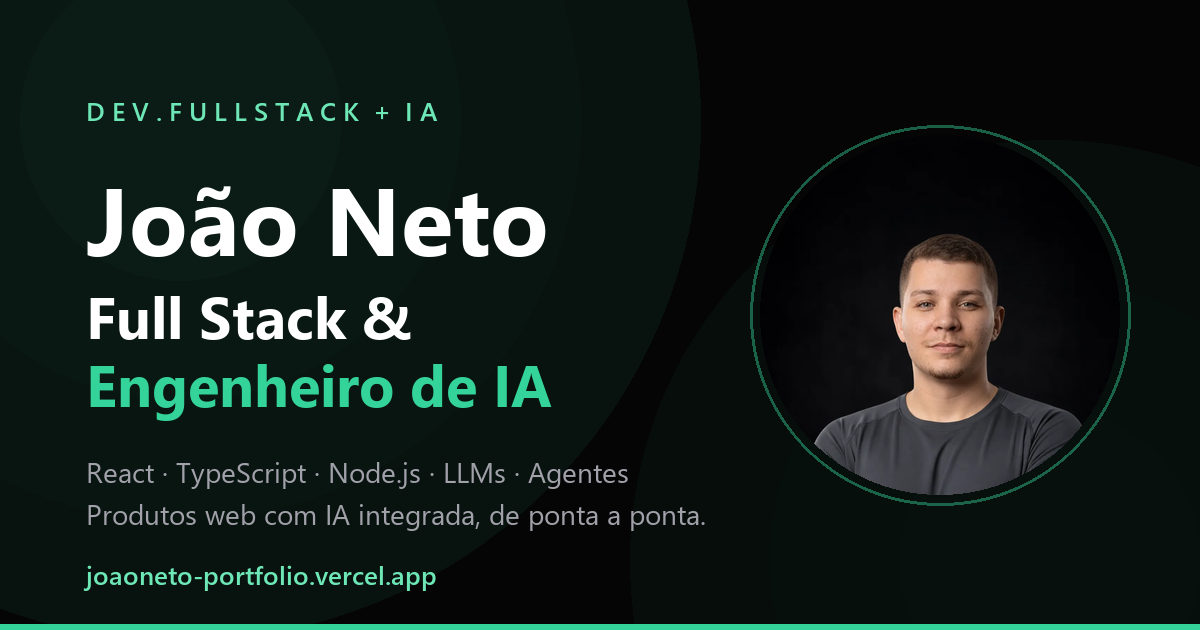
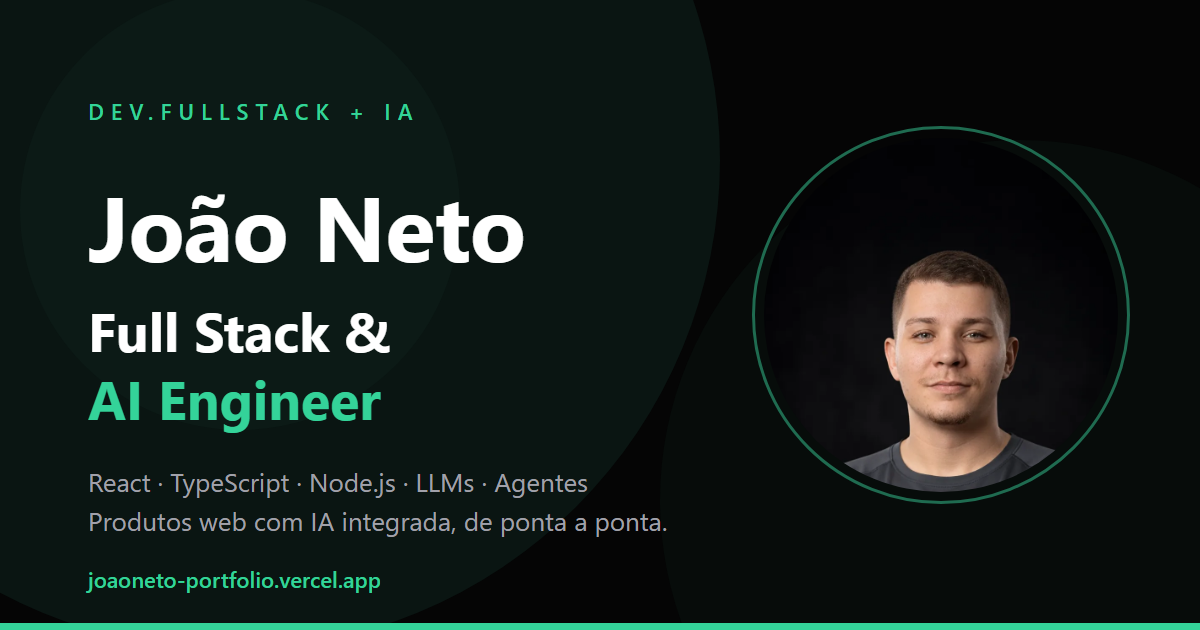
copy: troca Engenheiro de IA por AI Engineer
Hero, Sobre, dados do portfólio, agente do console, metadados de SEO e
compartilhamento, e a imagem og-image refeita com o novo título.

diff --git a/index.html b/index.html
@@ -4,10 +4,10 @@
     <meta charset="UTF-8" />
     <meta name="viewport" content="width=device-width, initial-scale=1.0" />
 
-    <title>João Neto — Desenvolvedor Full Stack e Engenheiro de IA</title>
+    <title>João Neto — Desenvolvedor Full Stack e AI Engineer</title>
     <meta
       name="description"
-      content="Portfólio de João Neto, desenvolvedor full stack e engenheiro de IA. Aplicações web em React, TypeScript e Node.js com IA de ponta a ponta: RAG, fine-tuning, agentes com MCP e skills, medidos por evals."
+      content="Portfólio de João Neto, desenvolvedor full stack e AI Engineer. Aplicações web em React, TypeScript e Node.js com IA de ponta a ponta: RAG, fine-tuning, agentes com MCP e skills, medidos por evals."
     />
     <meta name="author" content="João Neto" />
     <meta name="robots" content="index, follow" />
@@ -16,10 +16,10 @@
     <link rel="canonical" href="https://joaoneto-portfolio.vercel.app/" />
 
     <meta property="og:type" content="website" />
-    <meta property="og:site_name" content="João Neto — Full Stack e Engenheiro de IA" />
+    <meta property="og:site_name" content="João Neto — Full Stack e AI Engineer" />
     <meta property="og:locale" content="pt_BR" />
     <meta property="og:url" content="https://joaoneto-portfolio.vercel.app/" />
-    <meta property="og:title" content="João Neto — Full Stack e Engenheiro de IA" />
+    <meta property="og:title" content="João Neto — Full Stack e AI Engineer" />
     <meta
       property="og:description"
       content="Aplicações web em React, TypeScript e Node.js, com IA de ponta a ponta: RAG, fine-tuning, agentes com MCP e skills, medidos por evals."
@@ -27,10 +27,10 @@
     <meta property="og:image" content="https://joaoneto-portfolio.vercel.app/assets/og-image.png" />
     <meta property="og:image:width" content="1200" />
     <meta property="og:image:height" content="630" />
-    <meta property="og:image:alt" content="Cartão de apresentação de João Neto, desenvolvedor full stack e engenheiro de IA." />
+    <meta property="og:image:alt" content="Cartão de apresentação de João Neto, desenvolvedor full stack e AI Engineer." />
 
     <meta name="twitter:card" content="summary_large_image" />
-    <meta name="twitter:title" content="João Neto — Full Stack e Engenheiro de IA" />
+    <meta name="twitter:title" content="João Neto — Full Stack e AI Engineer" />
     <meta
       name="twitter:description"
       content="Aplicações web em React, TypeScript e Node.js, com IA de ponta a ponta: RAG, fine-tuning, agentes com MCP e skills, medidos por evals."
@@ -46,7 +46,7 @@
         "@context": "https://schema.org",
         "@type": "Person",
         "name": "João Neto",
-        "jobTitle": ["Desenvolvedor Full Stack", "Engenheiro de IA"],
+        "jobTitle": ["Desenvolvedor Full Stack", "AI Engineer"],
         "url": "https://joaoneto-portfolio.vercel.app/",
         "image": "https://joaoneto-portfolio.vercel.app/assets/og-image.png",
         "email": "mailto:joaonetodevops@gmail.com",

diff --git a/src/components/effects/AgentConsole.tsx b/src/components/effects/AgentConsole.tsx
@@ -12,7 +12,7 @@ type Message = {
 }
 
 const answers: Record<Intent, string> = {
-  about: `Sou o agente do João. Ele é Desenvolvedor Full Stack e Engenheiro de IA: constrói produtos web de ponta a ponta, da interface em React à API em Node.js, e coloca IA dentro do produto: RAG, fine-tuning, agentes com MCP e skills, tudo medido com evals. Hoje são ${projects.length} projetos publicados.`,
+  about: `Sou o agente do João. Ele é Desenvolvedor Full Stack e AI Engineer: constrói produtos web de ponta a ponta, da interface em React à API em Node.js, e coloca IA dentro do produto: RAG, fine-tuning, agentes com MCP e skills, tudo medido com evals. Hoje são ${projects.length} projetos publicados.`,
   ai: 'Ele trabalha o ciclo inteiro. Começa pelo dado: limpeza, chunking, embeddings e banco vetorial para um RAG que cita a fonte. Escolhe o modelo e decide entre prompt, RAG ou fine-tuning (LoRA, dataset curado) pelo custo e pela precisão. Dá ação ao agente com tool calling, servidores MCP e skills reutilizáveis. E fecha com evals, guardrails e observabilidade de custo, latência e alucinação, para o agente ser confiável em produção.',
   projects: 'Estes são alguns produtos que ele colocou no ar. Todos estão online para você abrir agora:',
   stack:

diff --git a/src/data/portfolio.ts b/src/data/portfolio.ts
@@ -7,7 +7,7 @@ import digytron from '/assets/digytron.webp'
 
 export const profile = {
   name: 'João Neto',
-  role: 'Desenvolvedor Full Stack & Engenheiro de IA',
+  role: 'Desenvolvedor Full Stack & AI Engineer',
   whatsappUrl: 'https://contate.me/5561986366632',
   resumeUrl: '/docs/joao-neto-curriculo.pdf',
   email: 'joaonetodevops@gmail.com',
@@ -262,7 +262,7 @@ export const experience: Experience[] = [
   {
     period: '09/2025 — atual',
     current: true,
-    title: 'Programador Web Full Stack & Engenheiro de IA',
+    title: 'Programador Web Full Stack & AI Engineer',
     org: 'Freelancer · autônomo',
     groups: [
       {

diff --git a/src/components/sections/About.tsx b/src/components/sections/About.tsx
@@ -71,7 +71,7 @@ export function About() {
                 organizado e fácil de evoluir.
               </p>
               <p>
-                Como Engenheiro de IA, trabalho o ciclo inteiro de um sistema
+                Como AI Engineer, trabalho o ciclo inteiro de um sistema
                 inteligente. Preparo os dados e monto RAG com embeddings e banco
                 vetorial para o modelo responder com base em fonte real. Escolho
                 entre prompt, RAG ou fine-tuning pelo custo e pela precisão de cada

diff --git a/src/components/sections/Hero.tsx b/src/components/sections/Hero.tsx
@@ -90,7 +90,7 @@ export function Hero() {
               </span>
             </span>
             <span className="mt-4 block text-2xl font-semibold leading-tight text-zinc-300 sm:text-3xl">
-              Full Stack <span className="text-emerald-400">&amp;</span> Engenheiro de IA
+              Full Stack <span className="text-emerald-400">&amp;</span> AI Engineer
             </span>
           </h1>
 
